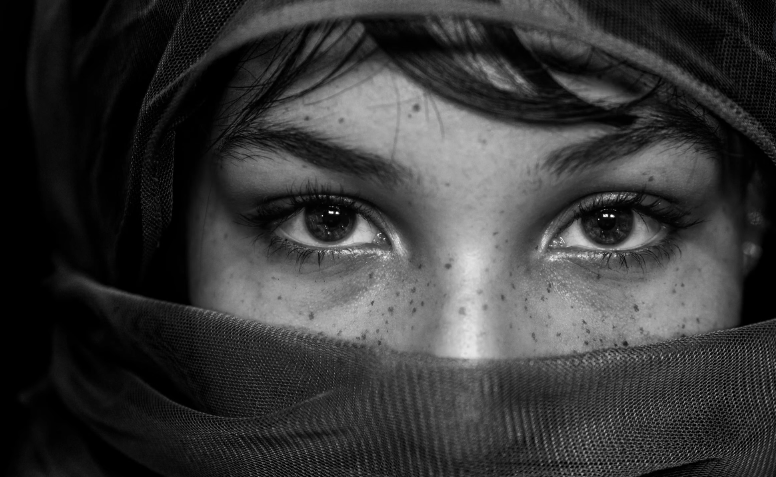
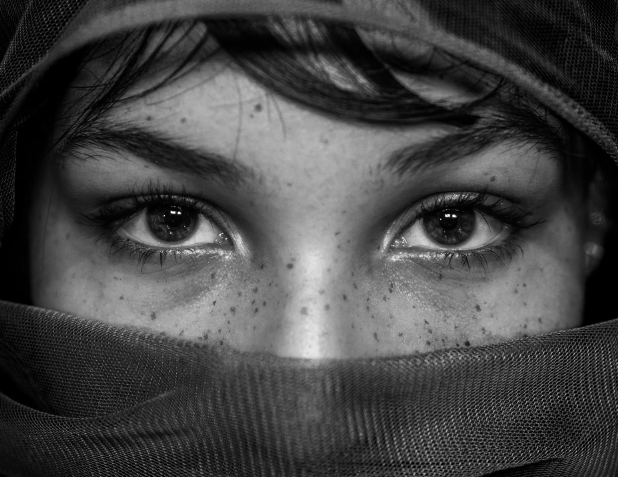
Create Portfolio Page

diff --git a/src/app/Components/Navigation/Portfolio/page.js b/src/app/Components/Navigation/Portfolio/page.js
@@ -1,5 +1,29 @@
+import Link from "next/link";
+
+const links = [
+    { href: "/Nature", label: "Nature" },
+    { href: "/Personal", label: "Personal", variant: "personal" },
+    { href: "/Family", label: "Family" },
+];
+
 export default function Portfolio() {
     return (
-        <div>Portfolio</div>
+        <div className="flex flex-col gap-5 justify-center items-center min-h-dvh bg-[url('./Images/eye-mobile.png')] md:bg-[url('./Images/eyes.png')] bg-white/20 bg-cover bg-no-repeat">
+          {links.map((link) => (
+            <Link 
+              key={link.href}
+              href={link.href}
+              className={`
+                ${
+                  link.variant === "personal"
+                    ? "px-12.5 py-5 border-3 border-stone text-stone-50 text-xl md:text-2xl  sm:text-stone-50 text-shadow-md/40 md:text-shadow-lg/60 bg-white/10 hover:bg-white/30 hover:ring-4 hover:ring-white/20"
+                    : "px-15 py-5 border-3 border-stone text-stone-50 text-xl md:text-2xl sm:text-stone-50 text-shadow-md/40 md:text-shadow-lg/60 bg-white/10 hover:bg-white/30 hover:ring-4 hover:ring-white/20"
+                }
+            `}
+            >
+              {link.label}
+            </Link>
+          ))}
+        </div>
     )
 }

diff --git a/src/app/Components/Navigation/Navigation.js b/src/app/Components/Navigation/Navigation.js
@@ -6,19 +6,19 @@ export default function Navigation() {
             <nav className="w-full flex sm:justify-end">
                 <ul className="flex gap-5 text-stone-50 text-md md:text-xl text-shadow-md/60 md:text-shadow-lg/30 font-serif sm:p-5">
                   <Link
-                  href="./Portfolio"
+                  href="./Components/Navigation/Portfolio"
                   className="hover:text-shadow-lg/80"
                   ><li>Portfolio</li></Link>
                   <Link
-                  href="./Sessions"
-                  className="hover:text-shadow-lg/80"
+                  href="./Components/Navigation/Sessions"
+                  className=" hidden hover:text-shadow-lg/80"
                   ><li>Sessions</li></Link>
                   <Link
-                  href="./About"
+                  href="./Components/Navigation/About"
                   className="hover:text-shadow-lg/80"
                   ><li>About</li></Link>  
                   <Link
-                  href="./Contact"
+                  href="./Components/Navigation/Contact"
                   className="hover:text-shadow-lg/80"
                   ><li>Contact</li></Link>  
                 </ul>
